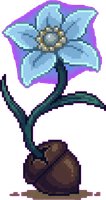
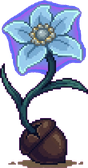
Deel 2: strakkere uitsnede van de wonderbloem (+15px rechts, iets kleiner); sleutel-glinster subtieler zonder gloed en hoger; trap-blokkade toont nu een melding over de wachter

diff --git a/games/ravenholt-deel2/js/engine.js b/games/ravenholt-deel2/js/engine.js
@@ -560,6 +560,15 @@
       return x >= r.x && x <= r.x + r.w && y >= r.y && y <= r.y + r.h;
     });
   }
+  function obstacleMsgAt(scene, x, y) {
+    const r = scene.obstacles && scene.obstacles.find((o) => {
+      if (!o.msg) return false;
+      if (o.requiresFlag && !state.flags[o.requiresFlag]) return false;
+      if (o.notFlag && state.flags[o.notFlag]) return false;
+      return x >= o.x && x <= o.x + o.w && y >= o.y && y <= o.y + o.h;
+    });
+    return r ? r.msg : null;
+  }
   function inWalkableScene(scene, x, y) {
     if (inObstacle(scene, x, y)) return false;
     if (scene.walkPoly) return pointInPoly(scene.walkPoly, x, y);
@@ -1602,18 +1611,21 @@
       const b = fx.bookSparkle;
       const bcol = b.col || '140,185,255';               // standaard blauw; goud voor de sleutel
       const boost = b.boost || 1;
-      const pr = (b.r || 22) * (1 + 0.10 * Math.sin(now / 680));
-      const pa = (0.13 + 0.07 * Math.sin(now / 520)) * boost;
-      const g = fctx.createRadialGradient(b.x, b.y, 2, b.x, b.y, pr);
-      g.addColorStop(0, `rgba(${bcol},${pa.toFixed(3)})`);
-      g.addColorStop(1, `rgba(${bcol},0)`);
-      fctx.fillStyle = g;
-      fctx.fillRect(Math.round(b.x - pr), Math.round(b.y - pr), Math.round(pr * 2), Math.round(pr * 2));
-      for (let i = 0; i < 5; i++) {                    // sparkles die traag omhoog dwarrelen
+      if (!b.noGlow) {                                  // zachte achtergrondgloed (overslaan voor een subtiel glinstertje)
+        const pr = (b.r || 22) * (1 + 0.10 * Math.sin(now / 680));
+        const pa = (0.13 + 0.07 * Math.sin(now / 520)) * boost;
+        const g = fctx.createRadialGradient(b.x, b.y, 2, b.x, b.y, pr);
+        g.addColorStop(0, `rgba(${bcol},${pa.toFixed(3)})`);
+        g.addColorStop(1, `rgba(${bcol},0)`);
+        fctx.fillStyle = g;
+        fctx.fillRect(Math.round(b.x - pr), Math.round(b.y - pr), Math.round(pr * 2), Math.round(pr * 2));
+      }
+      const nSpark = b.sparkCount || 5;
+      for (let i = 0; i < nSpark; i++) {                // sparkles die traag omhoog dwarrelen
         const sp = 2000 + i * 340;
         const tx = b.x + Math.sin(now / sp + i * 2.1) * (10 + (i % 3) * 5);
         const ty = b.y - 4 - ((now / (26 + i * 5)) + i * 13) % 26;
-        const a = (0.25 + 0.5 * (0.5 + 0.5 * Math.sin(now / 430 + i * 1.7))) * (b.boost ? Math.min(1.6, b.boost) : 1);
+        const a = (0.25 + 0.5 * (0.5 + 0.5 * Math.sin(now / 430 + i * 1.7))) * boost;
         twinkle(tx, ty, Math.min(1, a), b.col ? '255,232,160' : '185,215,255');
       }
     }
@@ -1636,7 +1648,7 @@
       if (state.flags.plantDancing) {
         const swayA = Math.sin(now / 380) * 0.075;       // rustig zwieren (radialen om de voet)
         const bop = Math.abs(Math.sin(now / 380)) * 1.4; // klein huppeltje
-        const H2 = 54;                                   // hoogte van de bloem in de scene
+        const H2 = 46;                                   // hoogte van de bloem in de scene
         if (ready(p._img)) {
           const W2 = H2 * (p._img.width / p._img.height);
           const hx = p.x + Math.sin(swayA) * H2 * 0.5, hy = p.y - H2 * 0.72 - bop;
@@ -6523,6 +6535,10 @@
       player.pending = null;
       player.target = dest;
       if (darkBlocked(p.x, p.y)) showToast(L(GAME.scenes[state.currentScene].darkWalkText));
+      else {
+        const om = obstacleMsgAt(GAME.scenes[state.currentScene], p.x, p.y);
+        if (om) showToast(L(om));
+      }
     }
   });
 

diff --git a/games/ravenholt-deel2/js/data.js b/games/ravenholt-deel2/js/data.js
@@ -14,7 +14,7 @@ const GAME = {
   title:      { nl: 'Fluisteringen van Ravenholt — Deel 2', en: 'Whispers of Ravenholt — Part 2' },
   titleLines: { nl: ['Fluisteringen', 'van Ravenholt', '· Deel 2 ·'], en: ['Whispers of', 'Ravenholt', '· Part 2 ·'] },
   startScene: 'courtyard',
-  assetVer: '166',
+  assetVer: '167',
 
   /* Finn — vaste figuur: roodharige jongen, blauwe kapmantel, leren tas, houten staf.
      idle = hero, lopen = 4-frame loopsheet (heroWalkSheet), zwaaien = heroWave.
@@ -1002,13 +1002,14 @@ const GAME = {
       obstacles: [
         { x: 182, y: 200, w: 94, h: 28 },                // de houten tafel met de fles
         { x: 276, y: 196, w: 70, h: 28 },                // de tonnen naast de tafel
-        { x: 152, y: 206, w: 340, h: 110, notFlag: 'guardPassed' },  // zolang de wachter je kan zien kom je de trap niet af — alleen terug, tot je onzichtbaar bent
+        { x: 152, y: 206, w: 340, h: 110, notFlag: 'guardPassed',
+          msg: { nl: 'De reusachtige wachter verspert de weg — je komt hier niet langs zolang hij je kan zien. Word onzichtbaar!', en: 'The huge guard blocks the way — you cannot pass while he can see you. Turn invisible!' } },  // zolang de wachter je kan zien kom je de trap niet af — alleen terug, tot je onzichtbaar bent
         { x: 288, y: 236, w: 68, h: 76, notFlag: 'guardPassed' }   // de wachter verspert de doorgang — tot je onzichtbaar bent (dan loop je er dwars langs)
       ],
       overlays: [],
       fx: {
-        bookSparkle: { x: 230, y: 196, r: 15, col: '255,208,110', boost: 1.5, doneFlag: 'gotCellKey' },  // de gouden sleutel glinstert op de wachttafel tot je hem hebt
-        nutPlant:  { x: 76, y: 292, img: 'assets/art/plant-dance.png', imgNut: 'assets/art/item-bignut.png' },   // wondernoot + dansend plantje in het plasje links
+        bookSparkle: { x: 230, y: 182, col: '255,208,110', boost: 0.6, noGlow: true, sparkCount: 3, doneFlag: 'gotCellKey' },  // de gouden sleutel glinstert licht op de wachttafel tot je hem hebt
+        nutPlant:  { x: 91, y: 292, img: 'assets/art/plant-dance.png', imgNut: 'assets/art/item-bignut.png' },   // wondernoot + dansend plantje in het plasje links
         waterGlint: { x: 60, y: 285, w: 30 },                            // het plasje glinstert blauw
         lockGlint: { x: 432, y: 218, requiresFlag: 'gotCellKey', doneFlag: 'fatherFreed' }   // het celslot glinstert goud
       },

diff --git a/games/ravenholt-deel2/index.html b/games/ravenholt-deel2/index.html
@@ -26,7 +26,7 @@
   <link rel="preconnect" href="https://fonts.googleapis.com">
   <link rel="preconnect" href="https://fonts.gstatic.com" crossorigin>
   <link href="https://fonts.googleapis.com/css2?family=Crimson+Pro:ital,wght@0,400;0,600;1,400&family=Pixelify+Sans:wght@400;600&display=swap" rel="stylesheet">
-  <link rel="stylesheet" href="css/style.css?v=166">
+  <link rel="stylesheet" href="css/style.css?v=167">
   <script type="application/ld+json">
   {
     "@context": "https://schema.org",
@@ -125,7 +125,7 @@
   </div>
 
   <div id="title-screen" class="overlay title">
-    <img class="title-bg" src="assets/art/title.jpg?v=166" alt="Whispers of Ravenholt" onerror="this.remove()">
+    <img class="title-bg" src="assets/art/title.jpg?v=167" alt="Whispers of Ravenholt" onerror="this.remove()">
     <div class="title-content">
       <h1 id="title-h1" hidden><span>Whispers of</span><br><span>Ravenholt</span></h1>
       <p id="title-sub" class="subtitle" hidden>Een point-and-click avontuur</p>
@@ -146,7 +146,7 @@
 
   <div id="win-screen" class="overlay" hidden>
     <div class="overlay-card panel">
-      <img class="win-banner" src="assets/art/win-deel2.jpg?v=166" alt="" onerror="this.remove()">
+      <img class="win-banner" src="assets/art/win-deel2.jpg?v=167" alt="" onerror="this.remove()">
       <h1 id="win-h1">Deel 1 uitgespeeld!</h1>
       <p class="intro" id="winText"></p>
       <button id="replayBtn" class="gold-btn">Opnieuw spelen</button>
@@ -314,10 +314,10 @@
     </div>
   </div>
 
-  <script src="js/sprites.js?v=166"></script>
-  <script src="js/scenes.js?v=166"></script>
-  <script src="js/data.js?v=166"></script>
-  <script src="js/engine.js?v=166"></script>
+  <script src="js/sprites.js?v=167"></script>
+  <script src="js/scenes.js?v=167"></script>
+  <script src="js/data.js?v=167"></script>
+  <script src="js/engine.js?v=167"></script>
   <script>
     if ('serviceWorker' in navigator) {
       window.addEventListener('load', () => {

diff --git a/games/ravenholt-deel2/sw.js b/games/ravenholt-deel2/sw.js
@@ -4,7 +4,7 @@
    offline beschikbaar wilt hebben (optioneel — niet-vermelde bestanden worden bij
    eerste gebruik alsnog gecachet). */
 
-const CACHE = 'ravenholt2-v166';
+const CACHE = 'ravenholt2-v167';
 
 const PRECACHE = [
   './',
